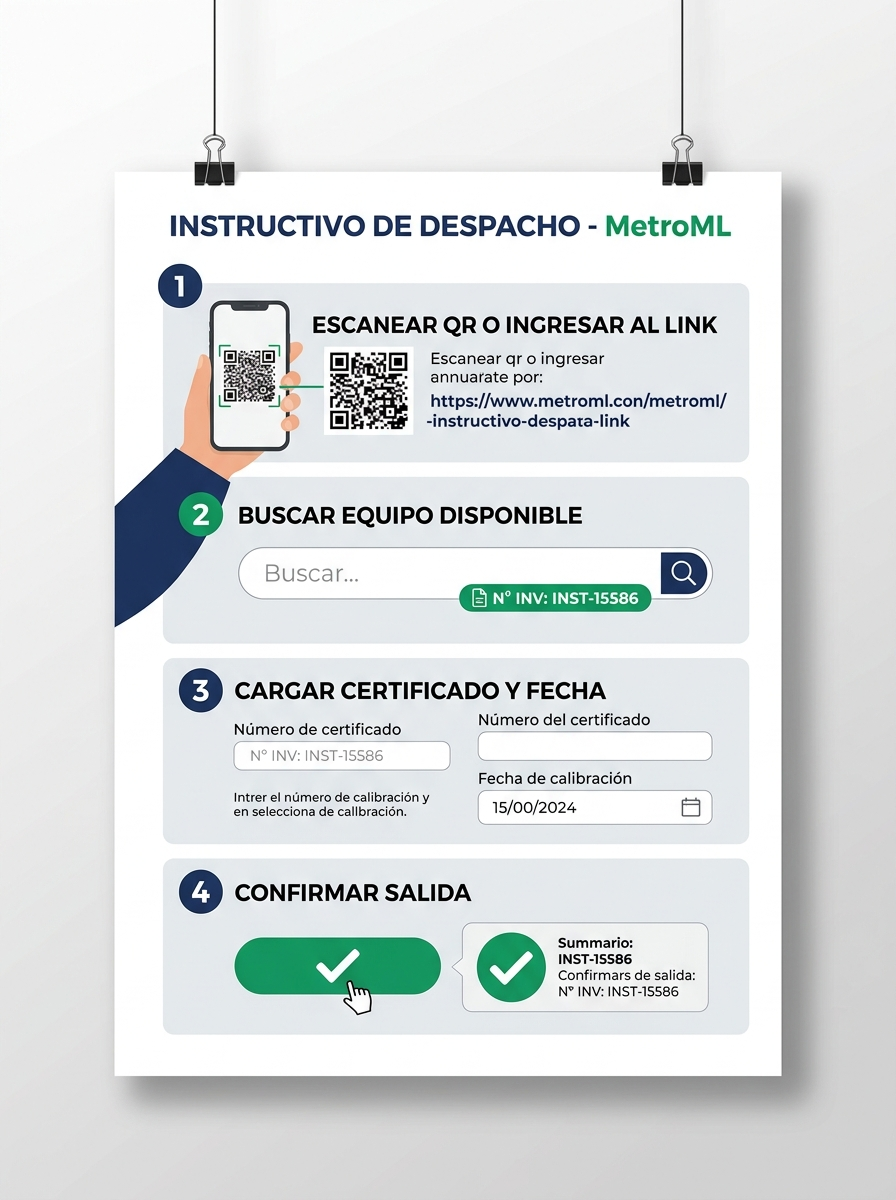
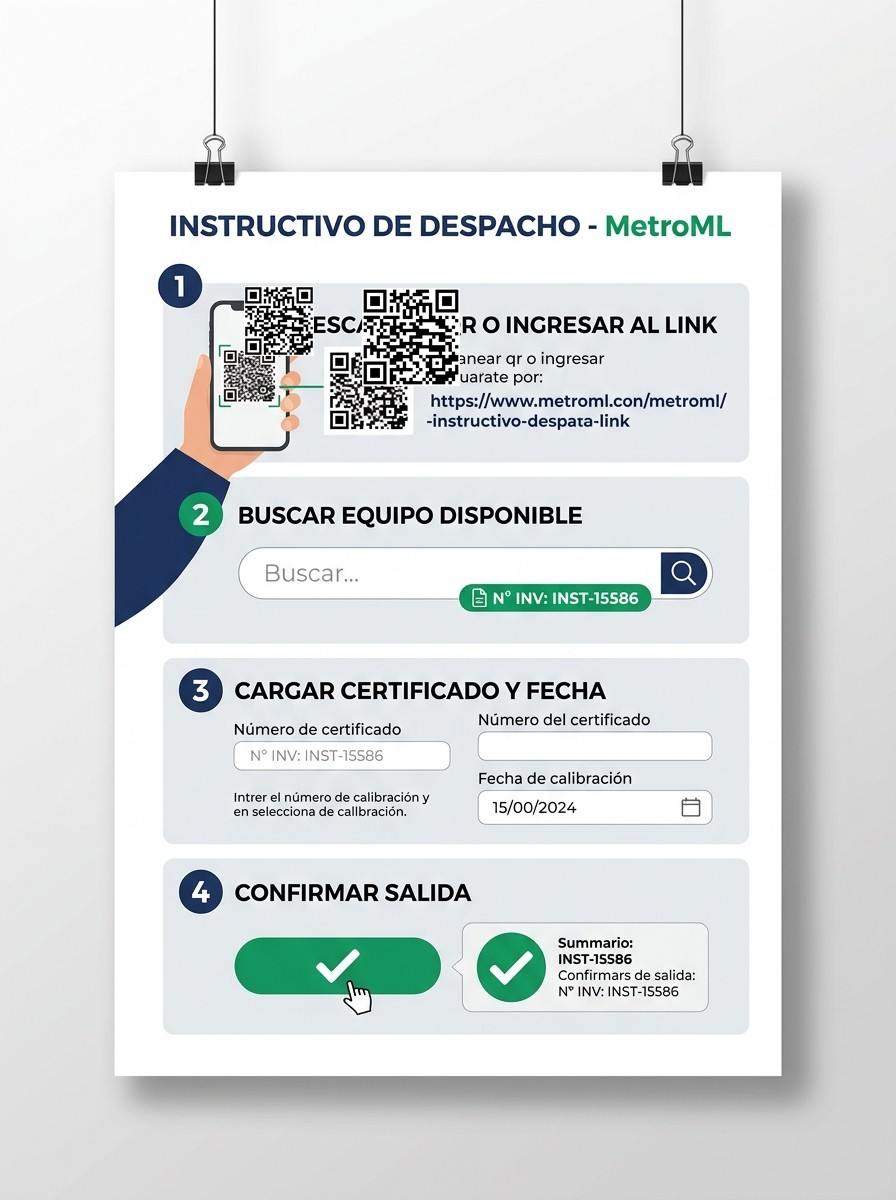
feat: Add real scannable QR code to poster image and printable A4 HTML page

Changed region(s): [[0.4062, 0.2158, 0.5312, 0.3392], [0.25, 0.2158, 0.375, 0.3083]]

diff --git a/despacho/instructivo_imprimir.html b/despacho/instructivo_imprimir.html
@@ -1,0 +1,364 @@
+<!DOCTYPE html>
+<html lang="es">
+<head>
+    <meta charset="UTF-8">
+    <meta name="viewport" content="width=device-width, initial-scale=1.0">
+    <title>Instructivo de Despacho - MetroML (Imprimir A4)</title>
+    <!-- Google Fonts -->
+    <link rel="preconnect" href="https://fonts.googleapis.com">
+    <link rel="preconnect" href="https://fonts.gstatic.com" crossorigin>
+    <link href="https://fonts.googleapis.com/css2?family=Inter:wght@400;500;600;700;800&family=JetBrains+Mono:wght@600;700&display=swap" rel="stylesheet">
+    <!-- Lucide Icons -->
+    <script src="https://unpkg.com/lucide@latest"></script>
+    <style>
+        :root {
+            --primary: #1e3a8a;
+            --primary-light: #2563eb;
+            --emerald: #059669;
+            --text-dark: #0f172a;
+            --text-muted: #475569;
+            --bg-gray: #f8fafc;
+            --border-color: #e2e8f0;
+        }
+
+        * {
+            margin: 0;
+            padding: 0;
+            box-sizing: border-box;
+            font-family: 'Inter', -apple-system, sans-serif;
+        }
+
+        body {
+            background-color: #e2e8f0;
+            color: var(--text-dark);
+            display: flex;
+            justify-content: center;
+            align-items: flex-start;
+            padding: 2rem;
+            min-height: 100vh;
+        }
+
+        /* Barra de acciones (solo en pantalla, se oculta al imprimir) */
+        .print-toolbar {
+            position: fixed;
+            top: 1rem;
+            right: 1rem;
+            z-index: 100;
+            display: flex;
+            gap: 0.75rem;
+        }
+
+        .btn-print {
+            background: #2563eb;
+            color: #fff;
+            border: none;
+            padding: 0.75rem 1.5rem;
+            font-size: 0.95rem;
+            font-weight: 700;
+            border-radius: 8px;
+            cursor: pointer;
+            display: flex;
+            align-items: center;
+            gap: 0.5rem;
+            box-shadow: 0 4px 12px rgba(37, 99, 235, 0.35);
+            transition: all 0.2s;
+        }
+
+        .btn-print:hover {
+            background: #1d4ed8;
+            transform: translateY(-1px);
+        }
+
+        /* Hoja A4 para imprimir */
+        .a4-sheet {
+            width: 210mm;
+            min-height: 297mm;
+            background: #ffffff;
+            padding: 14mm 16mm;
+            box-shadow: 0 10px 25px rgba(0, 0, 0, 0.15);
+            display: flex;
+            flex-direction: column;
+            justify-content: space-between;
+        }
+
+        /* Header */
+        .poster-header {
+            display: flex;
+            justify-content: space-between;
+            align-items: center;
+            border-bottom: 3px solid var(--primary);
+            padding-bottom: 1rem;
+            margin-bottom: 1.25rem;
+        }
+
+        .header-titles h1 {
+            font-size: 1.6rem;
+            font-weight: 800;
+            color: var(--primary);
+            letter-spacing: -0.5px;
+            text-transform: uppercase;
+        }
+
+        .header-titles p {
+            font-size: 0.85rem;
+            color: var(--text-muted);
+            font-weight: 600;
+            margin-top: 0.2rem;
+        }
+
+        .header-badge {
+            background: #dbeafe;
+            color: #1e40af;
+            font-weight: 700;
+            font-size: 0.8rem;
+            padding: 0.4rem 0.8rem;
+            border-radius: 6px;
+            border: 1px solid #bfdbfe;
+        }
+
+        /* Grid de Pasos */
+        .steps-container {
+            display: flex;
+            flex-direction: column;
+            gap: 0.85rem;
+            flex: 1;
+        }
+
+        .step-card {
+            background: var(--bg-gray);
+            border: 1.5px solid var(--border-color);
+            border-radius: 10px;
+            padding: 1rem 1.15rem;
+            display: flex;
+            gap: 1rem;
+            align-items: center;
+        }
+
+        .step-number {
+            width: 38px;
+            height: 38px;
+            background: var(--primary);
+            color: #fff;
+            border-radius: 50%;
+            display: flex;
+            align-items: center;
+            justify-content: center;
+            font-size: 1.1rem;
+            font-weight: 800;
+            flex-shrink: 0;
+        }
+
+        .step-content {
+            flex: 1;
+        }
+
+        .step-title {
+            font-size: 1rem;
+            font-weight: 700;
+            color: var(--primary);
+            margin-bottom: 0.25rem;
+            display: flex;
+            align-items: center;
+            gap: 0.4rem;
+        }
+
+        .step-desc {
+            font-size: 0.825rem;
+            color: var(--text-muted);
+            line-height: 1.4;
+        }
+
+        /* Paso 1 con QR destacado */
+        .step-qr-layout {
+            display: flex;
+            justify-content: space-between;
+            align-items: center;
+            gap: 1.5rem;
+        }
+
+        .qr-box {
+            background: #ffffff;
+            border: 2px solid #cbd5e1;
+            padding: 0.4rem;
+            border-radius: 8px;
+            text-align: center;
+            flex-shrink: 0;
+        }
+
+        .qr-box img {
+            width: 105px;
+            height: 105px;
+            display: block;
+        }
+
+        .qr-caption {
+            font-size: 0.65rem;
+            font-weight: 700;
+            color: var(--primary);
+            margin-top: 0.25rem;
+        }
+
+        .url-box {
+            display: inline-block;
+            background: #ffffff;
+            border: 1px solid #cbd5e1;
+            padding: 0.4rem 0.65rem;
+            border-radius: 6px;
+            font-family: 'JetBrains Mono', monospace;
+            font-size: 0.75rem;
+            font-weight: 600;
+            color: #1e40af;
+            margin-top: 0.4rem;
+        }
+
+        /* Badges de muestra */
+        .inv-badge-sample {
+            display: inline-flex;
+            align-items: center;
+            gap: 0.35rem;
+            background: #dbeafe;
+            border: 1px solid #93c5fd;
+            padding: 0.2rem 0.5rem;
+            border-radius: 4px;
+            font-family: 'JetBrains Mono', monospace;
+            font-weight: 700;
+            font-size: 0.8rem;
+            color: #1e40af;
+            margin: 0.2rem 0;
+        }
+
+        .highlight-text {
+            color: #059669;
+            font-weight: 700;
+        }
+
+        /* Footer */
+        .poster-footer {
+            border-top: 1.5px solid var(--border-color);
+            padding-top: 0.75rem;
+            margin-top: 1rem;
+            display: flex;
+            justify-content: space-between;
+            align-items: center;
+            font-size: 0.75rem;
+            color: var(--text-muted);
+            font-weight: 500;
+        }
+
+        .footer-brand {
+            font-weight: 700;
+            color: var(--primary);
+        }
+
+        /* Media Print Rules */
+        @media print {
+            body {
+                background: none;
+                padding: 0;
+            }
+
+            .print-toolbar {
+                display: none !important;
+            }
+
+            .a4-sheet {
+                box-shadow: none;
+                padding: 10mm 12mm;
+                width: 100%;
+                min-height: 100%;
+            }
+        }
+    </style>
+</head>
+<body>
+
+    <!-- Botón Flotante para Imprimir -->
+    <div class="print-toolbar">
+        <button class="btn-print" onclick="window.print()">
+            <i data-lucide="printer"></i> Imprimir Cartel A4
+        </button>
+    </div>
+
+    <!-- Hoja A4 Lista para Imprimir -->
+    <div class="a4-sheet">
+        
+        <!-- Header -->
+        <header class="poster-header">
+            <div class="header-titles">
+                <h1>Instructivo de Despacho</h1>
+                <p>SchwyzLab Laboratorio de Metrología & CR MEDICION</p>
+            </div>
+            <div class="header-badge">
+                MetroML Stock v1.0
+            </div>
+        </header>
+
+        <!-- Pasos -->
+        <main class="steps-container">
+            
+            <!-- PASO 1 -->
+            <div class="step-card">
+                <div class="step-number">1</div>
+                <div class="step-content step-qr-layout">
+                    <div>
+                        <div class="step-title"><i data-lucide="smartphone"></i> Escanear QR o Ingresar al Enlace</div>
+                        <p class="step-desc">Apunta con la cámara de tu celular al código QR para abrir inmediatamente el sistema de despacho sin usuario ni contraseña.</p>
+                        <div class="url-box">emeemai.github.io/metro-stock/despacho/</div>
+                    </div>
+                    <div class="qr-box">
+                        <img src="qr_despacho.png" alt="Código QR Despacho">
+                        <div class="qr-caption">ESCANEAR AQUÍ</div>
+                    </div>
+                </div>
+            </div>
+
+            <!-- PASO 2 -->
+            <div class="step-card">
+                <div class="step-number">2</div>
+                <div class="step-content">
+                    <div class="step-title"><i data-lucide="search"></i> Buscar el Equipo Disponible</div>
+                    <p class="step-desc">En la barra superior de búsqueda, escribe el <strong>N° de Inventario</strong>, nombre del equipo, marca o serie. La pantalla mostrará únicamente equipos con estado <strong>DISPONIBLE</strong>.</p>
+                    <div style="margin-top: 0.35rem;">
+                        Ejemplo: <span class="inv-badge-sample">N° INV: INST-15586</span>
+                    </div>
+                </div>
+            </div>
+
+            <!-- PASO 3 -->
+            <div class="step-card">
+                <div class="step-number">3</div>
+                <div class="step-content">
+                    <div class="step-title"><i data-lucide="edit-3"></i> Cargar Certificado y Fecha</div>
+                    <p class="step-desc">Pulsa el botón azul <strong>"Registrar Despacho"</strong> e ingresa:</p>
+                    <ul style="margin-left: 1.25rem; font-size: 0.8rem; color: var(--text-muted); margin-top: 0.25rem;">
+                        <li><strong>N° de Certificado:</strong> Código del certificado emitido (ej. <code>202608-DE-15681</code>).</li>
+                        <li><strong>Fecha de Calibración / Salida:</strong> Fecha correspondiente.</li>
+                    </ul>
+                </div>
+            </div>
+
+            <!-- PASO 4 -->
+            <div class="step-card">
+                <div class="step-number">4</div>
+                <div class="step-content">
+                    <div class="step-title"><i data-lucide="check-circle-2"></i> Revisar y Confirmar Salida</div>
+                    <p class="step-desc">Se desplegará una pantalla de verificación. Revisa que el <span class="highlight-text">N° de Inventario</span>, el <span class="highlight-text">Certificado</span> y la <span class="highlight-text">Fecha</span> sean correctos. Luego presiona el botón verde <strong>"Confirmar Despacho"</strong>.</p>
+                </div>
+            </div>
+
+        </main>
+
+        <!-- Footer -->
+        <footer class="poster-footer">
+            <span class="footer-brand">CR MEDICION | SchwyzLab</span>
+            <span>Sistema Integral de Gestión de Instrumentos</span>
+            <span>Perú 1297 - CABA</span>
+        </footer>
+
+    </div>
+
+    <script>
+        lucide.createIcons();
+    </script>
+</body>
+</html>
